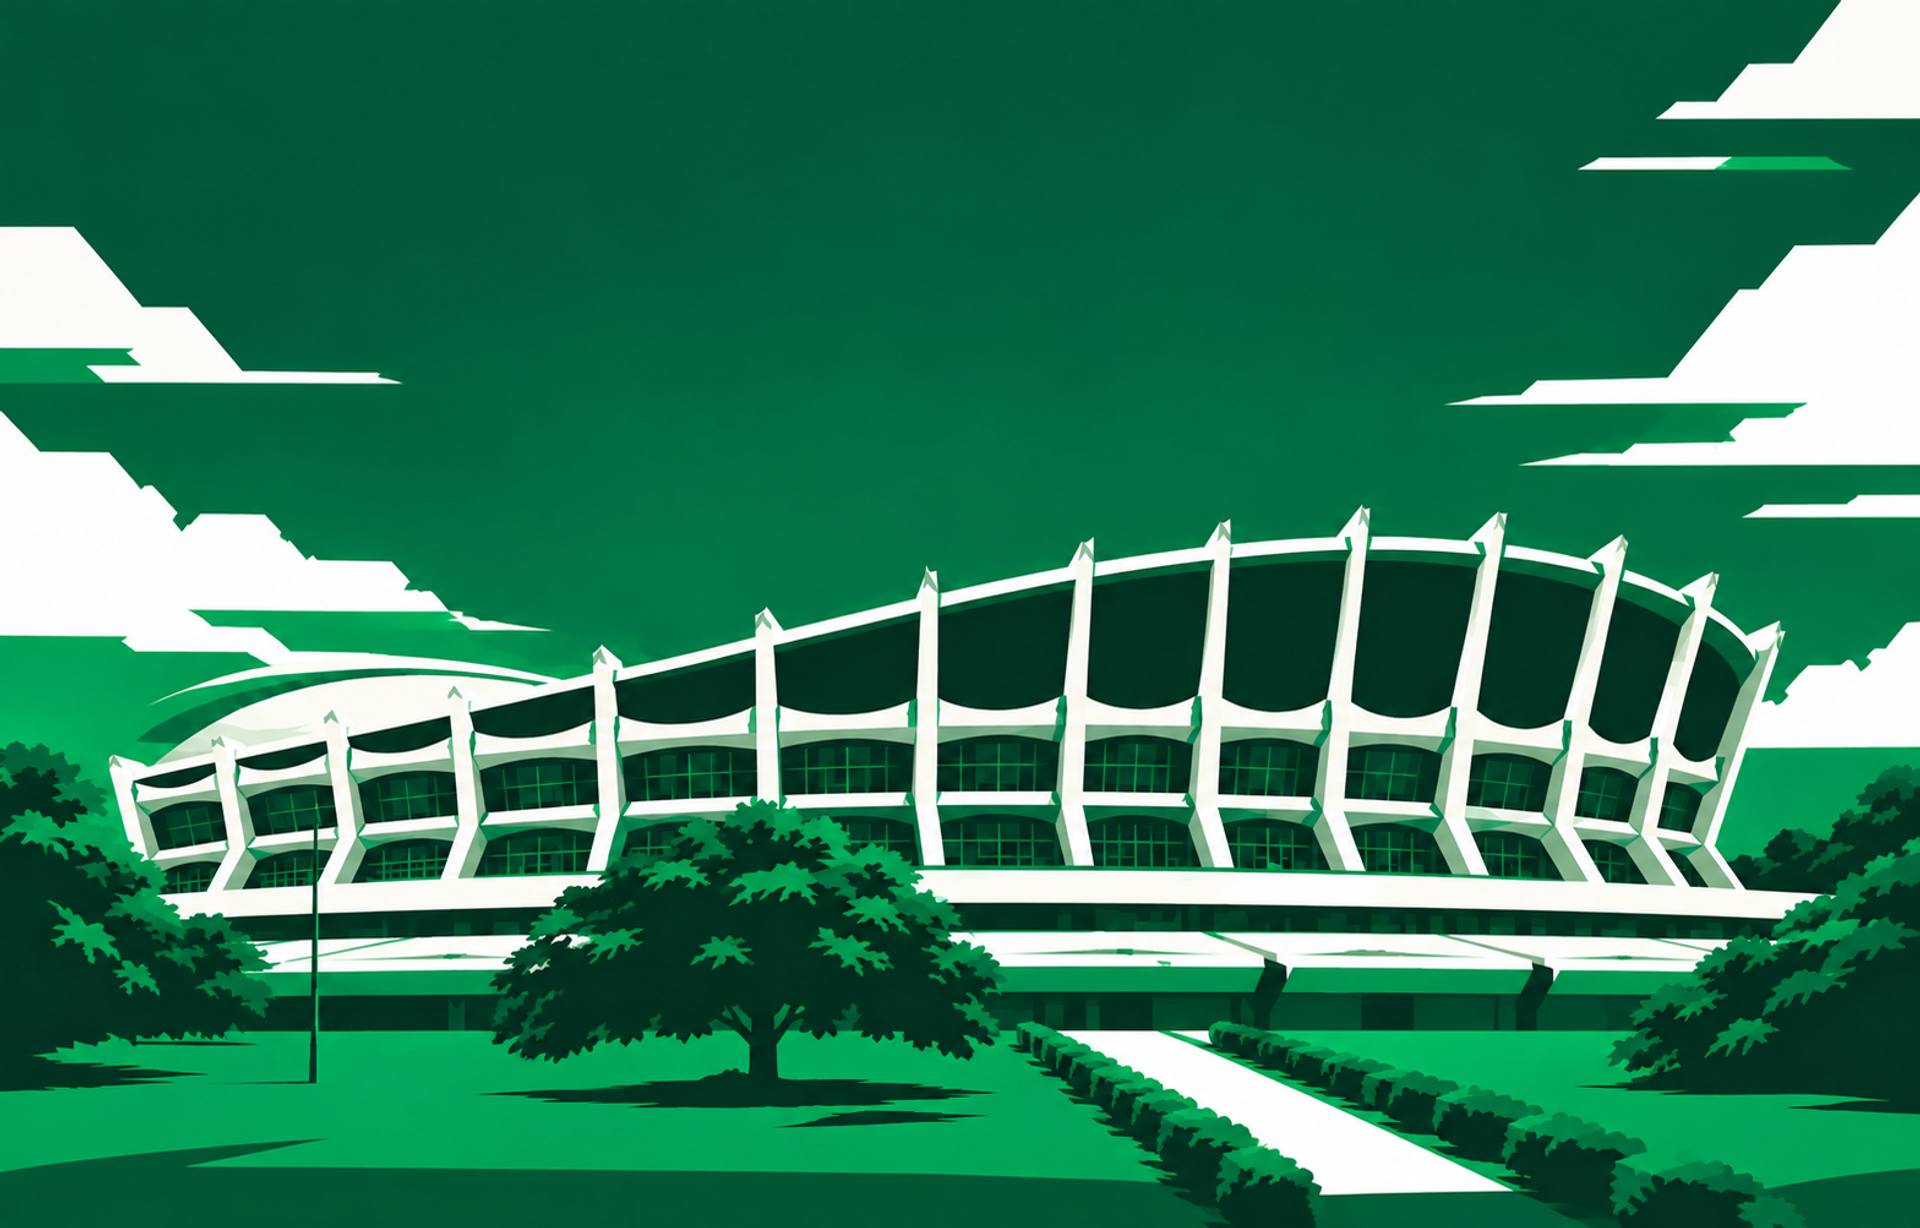
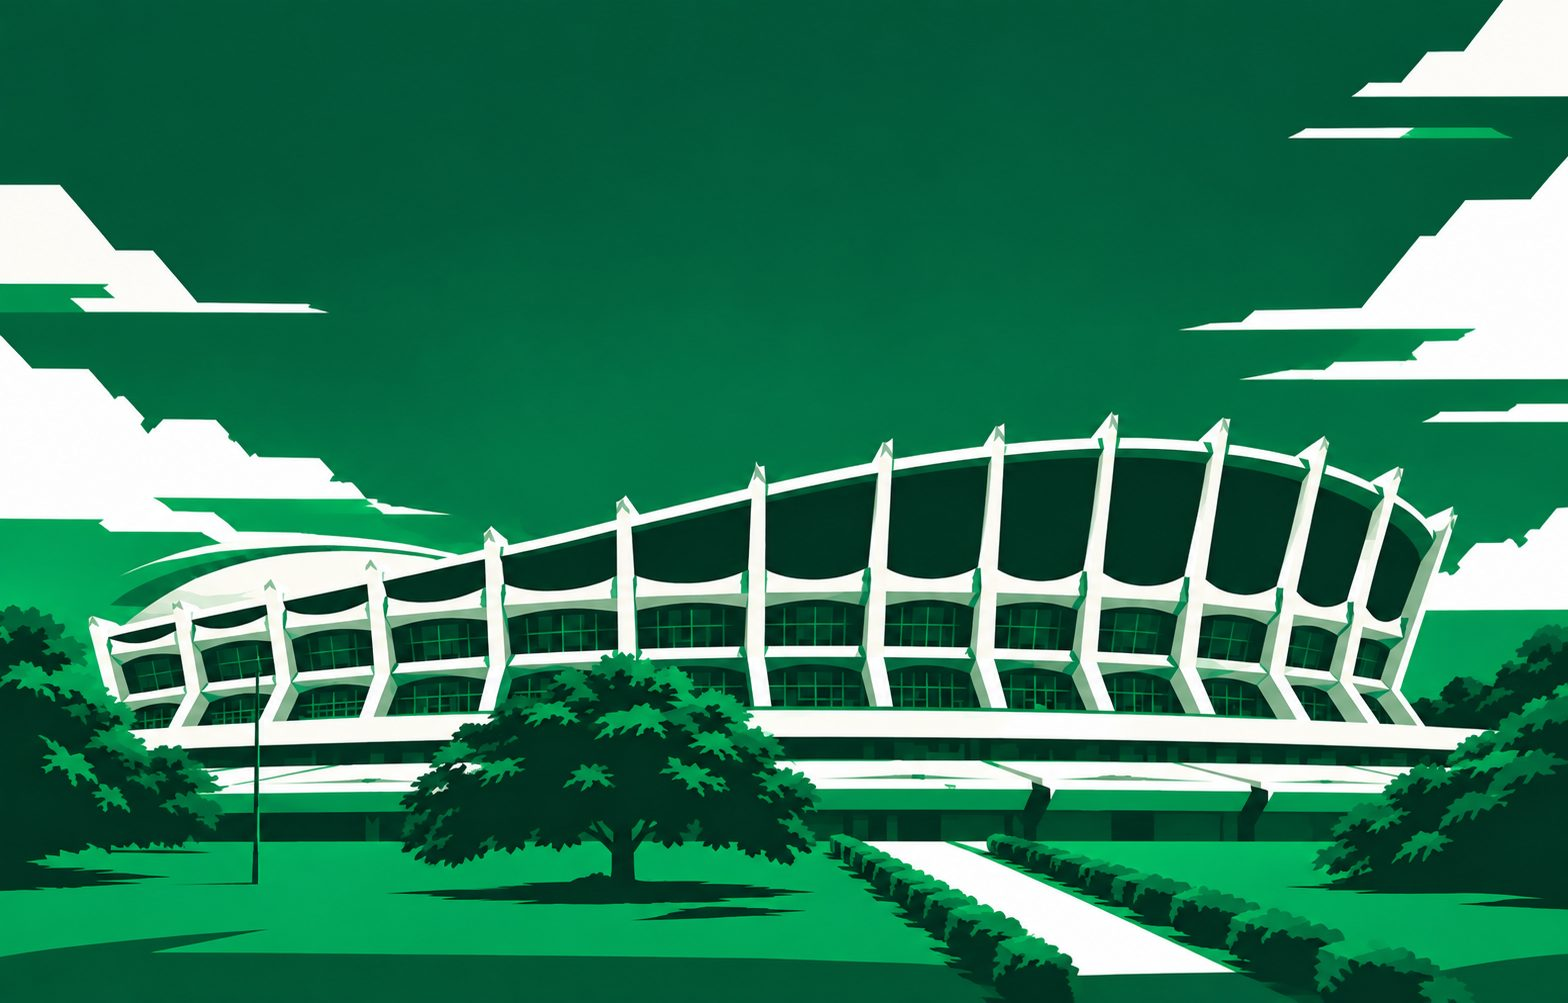
Hero: native-res photo, less zoom, brutalist CTA buttons

diff --git a/index.html b/index.html
@@ -249,6 +249,52 @@
             box-shadow: 0 12px 30px -10px rgba(22, 163, 74, .6)
         }
 
+        .hero-cta .btn {
+            border-radius: 0;
+            border: 3px solid var(--ink);
+            font-weight: 800;
+            box-shadow: 5px 5px 0 var(--ink);
+            transition: transform .1s, box-shadow .1s, background-color .1s
+        }
+
+        .hero-cta .btn:hover {
+            transform: translate(-2px, -2px)
+        }
+
+        .hero-cta .btn:hover svg {
+            transform: translateX(3px)
+        }
+
+        .hero-cta .btn:active {
+            transform: translate(3px, 3px);
+            box-shadow: 0 0 0 var(--ink)
+        }
+
+        .hero-cta .btn-gold {
+            background: var(--gold);
+            color: var(--ink);
+            box-shadow: 5px 5px 0 var(--ink)
+        }
+
+        .hero-cta .btn-gold:hover {
+            background: #ffd25a;
+            box-shadow: 7px 7px 0 var(--ink)
+        }
+
+        .hero-cta .btn-glass {
+            background: #fff;
+            color: var(--green);
+            border: 3px solid var(--ink);
+            backdrop-filter: none;
+            box-shadow: 5px 5px 0 var(--ink)
+        }
+
+        .hero-cta .btn-glass:hover {
+            background: #fff;
+            border-color: var(--ink);
+            box-shadow: 7px 7px 0 var(--ink)
+        }
+
         .btn[disabled] {
             opacity: .7;
             cursor: progress
@@ -4096,7 +4142,7 @@
 
                 /* hero intro — fade scene, fast cable draw */
                 var words = splitWords($('#hero-h1'));
-                gsap.set('.hero-photo', { scale: 1.22, transformOrigin: '50% 60%' });
+                gsap.set('.hero-photo', { scale: 1.08, transformOrigin: '50% 60%' });
                 gsap.set('#L-bridge-lights', { opacity: 0 });
                 gsap.set('.hero-chip', { opacity: 0, y: 12 });
                 gsap.set(words, { yPercent: 115 });
@@ -4123,7 +4169,7 @@
                 /* hero scroll story: dusk -> night, camera dolly */
                 var o = '800 640';
                 var hs = gsap.timeline({ defaults: { ease: 'none' }, scrollTrigger: { trigger: '#hero', start: 'top top', end: '+=130%', scrub: 0.8, pin: true, anticipatePin: 1 } });
-                hs.to('.hero-photo', { scale: 1.18, transformOrigin: '50% 60%' }, 0)
+                hs.to('.hero-photo', { scale: 1.08, transformOrigin: '50% 60%' }, 0)
                     .to('.hero-dim', { opacity: 0.55 }, 0)
                     .to('.hero-copy', { yPercent: -30, opacity: 0 }, 0.05)
                     .to('.hero-foot', { y: 60, opacity: 0 }, 0.1)
